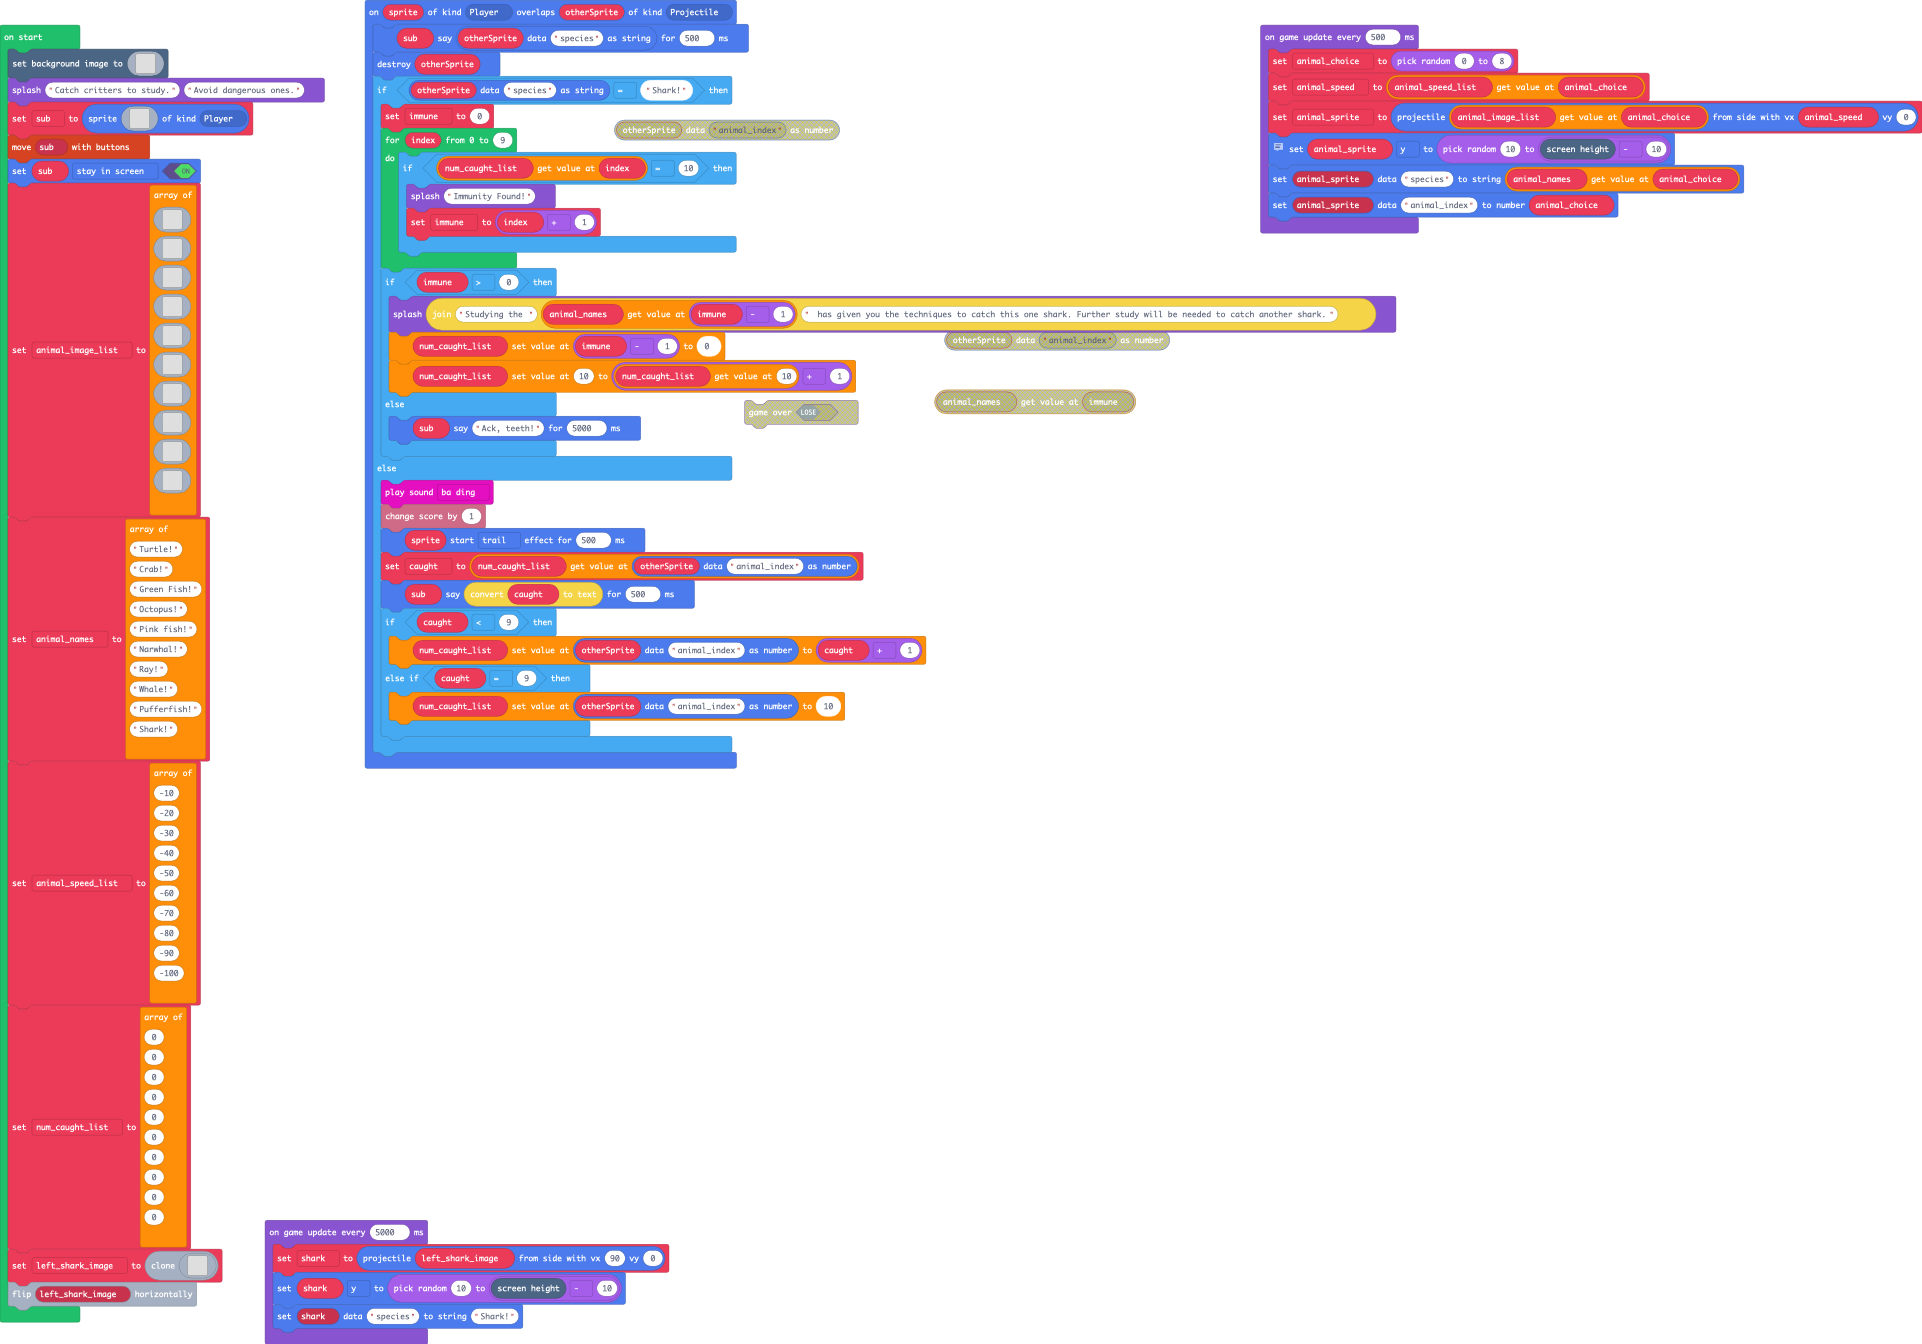
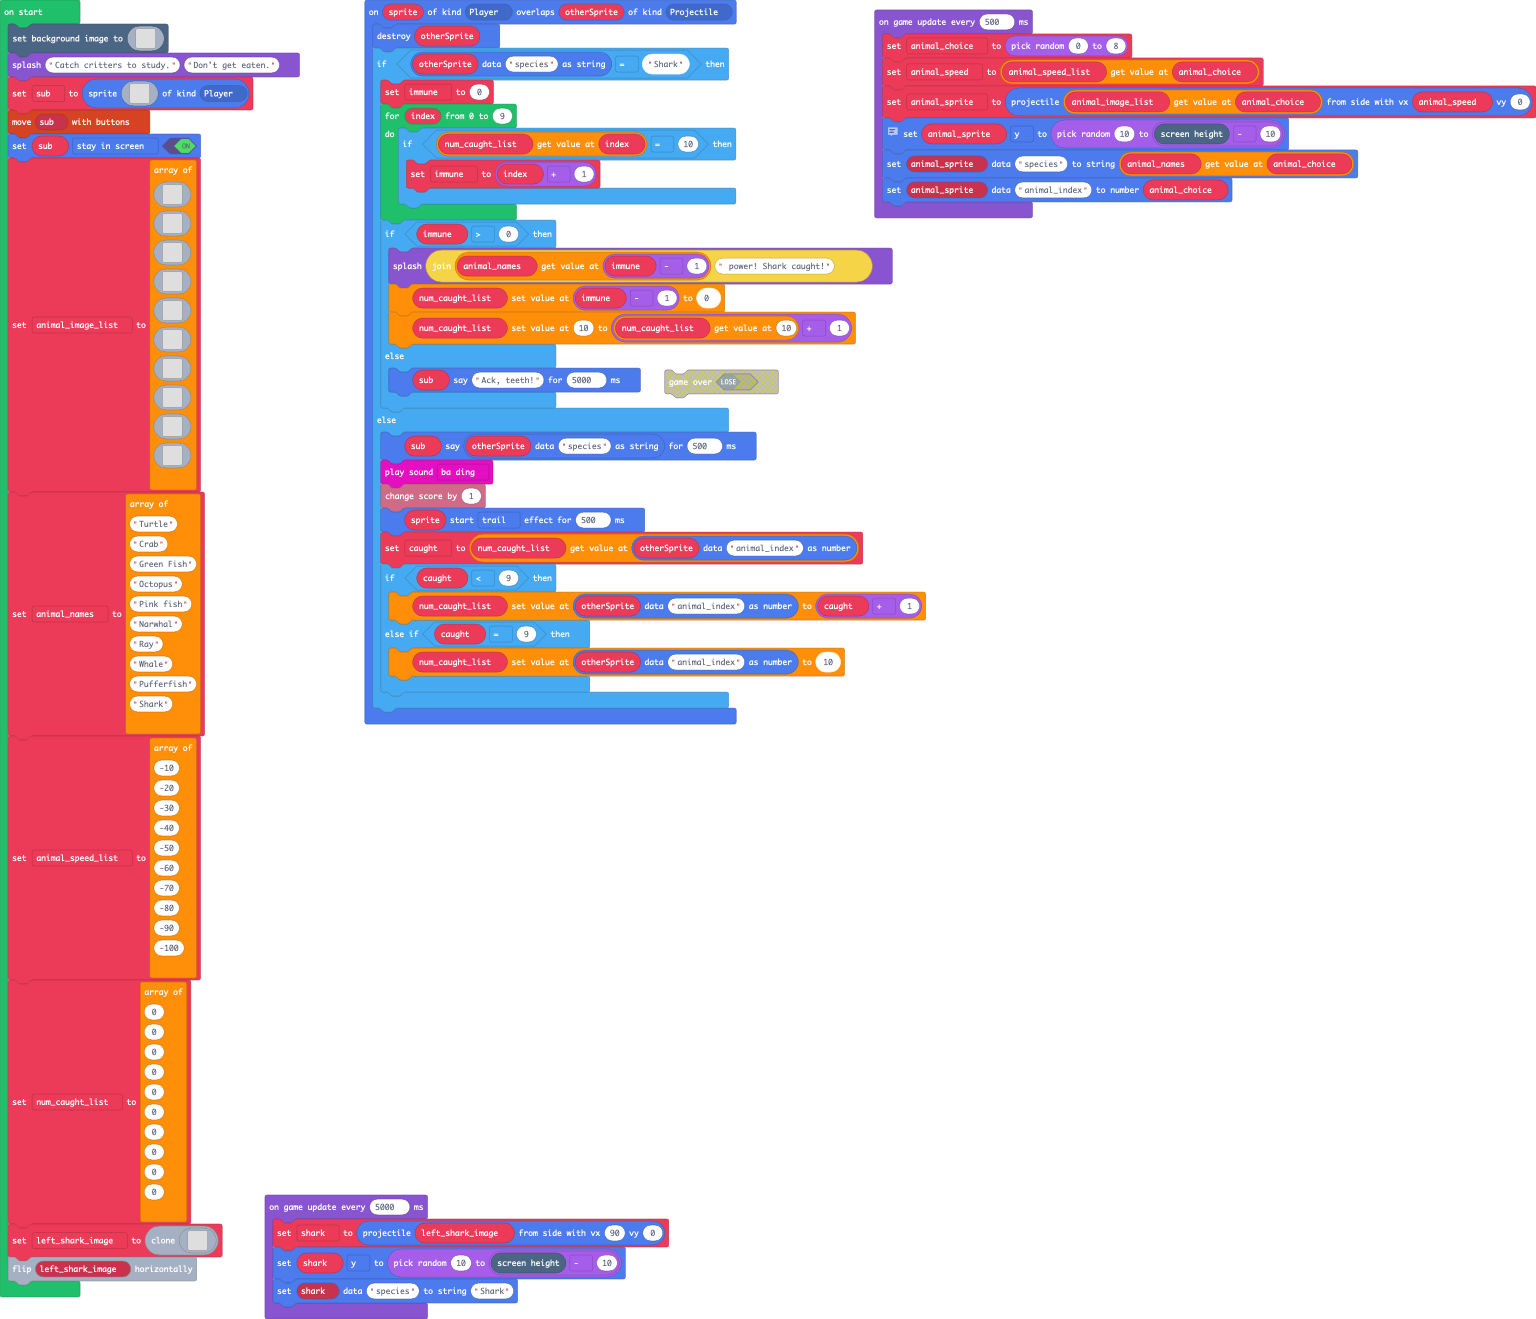
Immunity wit dialog description.

Changed region(s): [[0.0, 0.0, 1.0, 1.0]]

diff --git a/main.ts b/main.ts
@@ -39,29 +39,27 @@ namespace myTiles {
 `
 }
 sprites.onOverlap(SpriteKind.Player, SpriteKind.Projectile, function (sprite, otherSprite) {
-    sub.say(sprites.readDataString(otherSprite, "species"), 500)
     otherSprite.destroy()
-    if (sprites.readDataString(otherSprite, "species") == "Shark!") {
+    if (sprites.readDataString(otherSprite, "species") == "Shark") {
         immune = 0
         for (let index = 0; index <= 9; index++) {
             if (num_caught_list[index] == 10) {
-                game.splash("Immunity Found!")
                 immune = index + 1
             }
         }
         if (immune > 0) {
-            game.splash("Studying the " + animal_names[immune - 1] + " has given you the techniques to catch this one shark. Further study will be needed to catch another shark.")
+            game.splash("" + animal_names[immune - 1] + " power! Shark caught!")
             num_caught_list[immune - 1] = 0
             num_caught_list[10] = num_caught_list[10] + 1
         } else {
             sub.say("Ack, teeth!", 5000)
         }
     } else {
+        sub.say(sprites.readDataString(otherSprite, "species"), 500)
         music.baDing.play()
         info.changeScoreBy(1)
         sprite.startEffect(effects.trail, 500)
         caught = num_caught_list[sprites.readDataNumber(otherSprite, "animal_index")]
-        sub.say(convertToText(caught), 500)
         if (caught < 9) {
             num_caught_list[sprites.readDataNumber(otherSprite, "animal_index")] = caught + 1
         } else if (caught == 9) {
@@ -200,7 +198,7 @@ d 7 7 7 7 7 7 7 7 7 7 7 7 7 7 7 7 7 7 7 7 d d d d d d d d d d d d 7 7 7 7 7 d d 
 7 7 7 7 7 7 7 7 7 7 7 7 7 7 7 7 7 7 7 7 7 7 7 7 7 7 7 7 7 7 7 7 7 7 7 7 7 7 7 7 7 7 7 7 7 7 7 7 7 7 7 7 7 7 7 7 7 7 7 7 7 7 7 7 7 7 7 d d d d d d 7 7 7 7 7 7 7 7 7 7 7 7 7 7 7 7 7 7 7 7 7 7 7 7 7 d d d d d d d d d d d d d d d d d d d d d d d d d d d d d d d d d d d d d d d d d d d d d d d d d d d d d d 7 7 7 7 7 7 7 7 
 7 7 7 7 7 7 7 7 7 7 7 7 7 7 7 7 7 7 7 7 7 7 7 7 7 7 7 7 7 7 7 7 7 7 7 7 7 7 7 7 7 7 7 7 7 7 7 7 7 7 7 7 7 7 7 7 7 7 7 7 7 7 7 7 7 7 7 7 7 7 7 7 7 7 7 7 7 7 7 7 7 7 7 7 7 7 7 7 7 7 7 7 7 7 7 7 7 7 d d d d d d d d d d d d d d d d d d d d d d d d d d d d d d d d d d d d d d d d d d d d d d d d d d d d d d 7 7 7 7 7 7 7 7 
 `)
-game.splash("Catch critters to study.", "Avoid dangerous ones.")
+game.splash("Catch critters to study.", "Don't get eaten.")
 sub = sprites.create(img`
 . . . . . . . . . . . f f f f f f . . . . . . . . . . . . . . . 
 . . . . . . . . . . f d e d e e e f . . . . . . . . . . . . . . 
@@ -392,7 +390,7 @@ d d f d f d d d d d d d d d d .
 . . . . . . . . . . . . . d . . 
 . . . . . . . . . . . . . . . . 
 `]
-animal_names = ["Turtle!", "Crab!", "Green Fish!", "Octopus!", "Pink fish!", "Narwhal!", "Ray!", "Whale!", "Pufferfish!", "Shark!"]
+animal_names = ["Turtle", "Crab", "Green Fish", "Octopus", "Pink fish", "Narwhal", "Ray", "Whale", "Pufferfish", "Shark"]
 let animal_speed_list = [-10, -20, -30, -40, -50, -60, -70, -80, -90, -100]
 num_caught_list = [0, 0, 0, 0, 0, 0, 0, 0, 0, 0]
 let left_shark_image = img`
@@ -426,5 +424,5 @@ game.onUpdateInterval(500, function () {
 game.onUpdateInterval(5000, function () {
     shark = sprites.createProjectileFromSide(left_shark_image, 90, 0)
     shark.y = Math.randomRange(10, scene.screenHeight() - 10)
-    sprites.setDataString(shark, "species", "Shark!")
+    sprites.setDataString(shark, "species", "Shark")
 })
